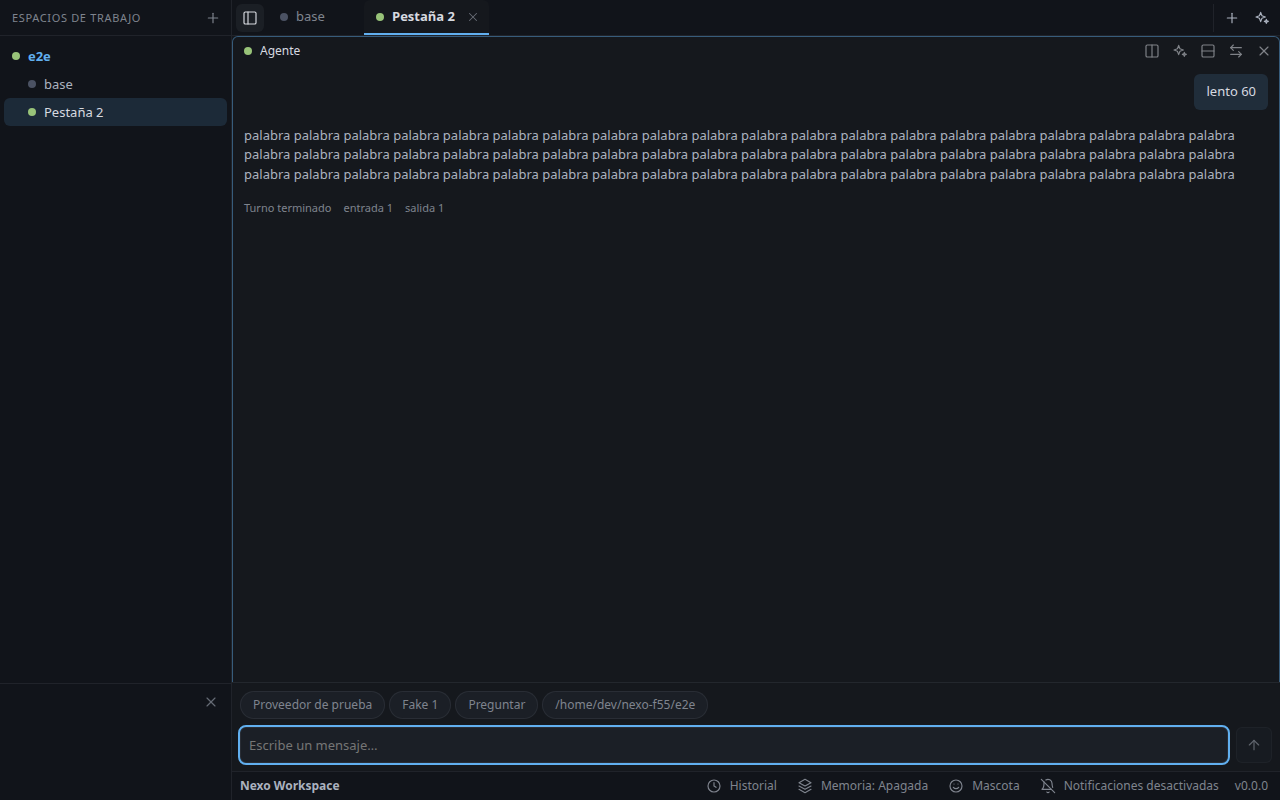
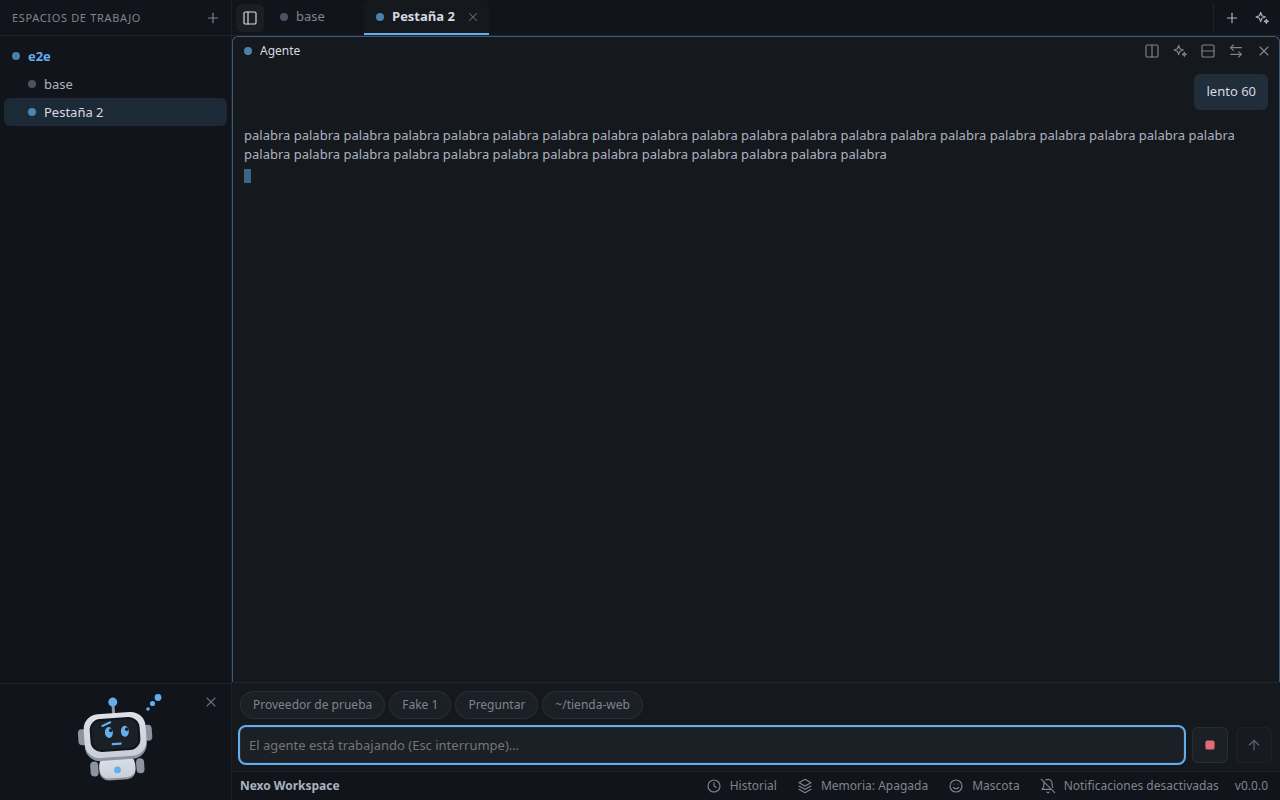
docs: F5.5 (pestañas, rutas largas y Robi) en arquitectura, roadmap, mascotas y README; capturas sin la ruta del VPS

diff --git a/docs/ARCHITECTURE.md b/docs/ARCHITECTURE.md
@@ -2317,7 +2317,7 @@ Las tablas de costos de la memoria alinean a la derecha las columnas numéricas 
 - **Barra de estado:** dos grupos, el de la izquierda (nombre de la app y límites) y el de la derecha (Historial, Memoria, Mascota, Notificaciones y versión), con altura fija de 28 px, sin
   `margin-left: auto` repartido por los botones (de ahí que «Historial» flotara en medio). Los límites se truncan y su detalle se ancla a la barra, no al botón.
 - **Pestañas:** botones a los lados que no se mueven (barra lateral, `+`, agente) y una lista central con desplazamiento horizontal; la pestaña activa se lleva a la vista entera, con su
-  cerrar. Anchura de cada pestaña `clamp(112px, 24vw, 200px)`; el cerrar es visible en la activa y en pantallas táctiles.
+  cerrar. Anchura de cada pestaña según su título, entre `--tab-min` (96 px) y `--tab-max` (200 px) (ver «Detalles visuales y Robi (F5.5)»); el cerrar es visible en la activa y en pantallas táctiles.
 - **Paneles:** cada panel es un contenedor (`container-type: inline-size`): por debajo de 300 px de ancho se retiran los botones secundarios de su cabecera (dividir con agente, intercambiar), por
   debajo de 190 px también los de dividir; cerrar siempre queda. Un panel mide al menos `--pane-min` (120 px) y, si no caben, el contenedor se desplaza en vez de aplastarlos. Las acciones se ven siempre en el panel con foco
   y, sin «pasar el ratón» (`hover: none`), en todos.
@@ -2330,7 +2330,34 @@ Unitarias de `Icon` (trazos válidos, tamaños, nombres hostiles), `Dialog`/`Dia
 con el cajón abierto). Adversariales (`Icon`, `Dialog`, `layout.adversarial.test.tsx`): etiquetas de 20 000 caracteres, emojis, RTL y marcado, 400 pestañas, cruzar el umbral 300 veces, sin `matchMedia`. E2E
 (`e2e/pulido.spec.ts`): a 360, 768, 1024, 1280 y 1920 px recorre terminal con tres paneles, agente con chips y con permiso, visor, Historial (lista y sesión), Memoria, Mascota, límites, Atajos, cajón y barra colapsada, y exige
 `scrollWidth <= clientWidth` en el documento y en las barras, que nada salga de la ventana y que todo botón de icono mida ≥ 28 px; a 360 px comprueba que los botones clave son visibles y pulsables y que la pestaña activa
-queda entera a la vista. Capturas: `docs/capturas/f5-4-*.png` (`NEXO_CAPTURAS=1 pnpm e2e -g pulido`; `NEXO_CAPTURAS_PREFIX` y `NEXO_CAPTURAS_DIR` cambian el nombre y la carpeta).
+queda entera a la vista. Capturas: `docs/capturas/f5-4-*.png` (`NEXO_CAPTURAS=1 pnpm e2e -g pulido`; `NEXO_CAPTURAS_PREFIX` y `NEXO_CAPTURAS_DIR` cambian el nombre y la carpeta); desde F5.5 muestran a Robi.
+
+## Detalles visuales y Robi (F5.5)
+
+Retoques tras revisar las capturas de la F5.4 (#81). Sin cambios de protocolo ni de contratos.
+
+- **Pestañas** (`ui/TabBar.tsx`, `TabBar.css`): cada una mide lo que pide su título, con `min-width: var(--tab-min)` (96 px) y `max-width: var(--tab-max)` (200 px); el título se corta con puntos suspensivos
+  y el cerrar queda pegado a él. La lista va dentro de un marco (`.tablist-frame`) con dos fundidos (`--tab-fade`) que aparecen según `data-more` (`start`, `end` o ambos), calculado al desplazar, al
+  redimensionar (`ResizeObserver`, si existe) y al cambiar los títulos. La rueda vertical desplaza la lista en horizontal solo si desborda y si el gesto es más vertical que horizontal; el desplazamiento
+  horizontal nativo (táctil, panel táctil) no se toca.
+- **Rutas largas:** una ruta ya no se parte a mitad de palabra. La línea de metadatos de una sesión del Historial separa la parte fija (proveedor y fecha) de la ruta, que se trunca con puntos suspensivos y lleva
+  la ruta entera en `title`; con poco ancho, la información de la sesión baja a su propia fila. El visor (`.viewer-path`), el chip de cwd del compositor y la cabecera de cada proyecto del Historial ya truncaban con
+  `title`. La ruta de un bloque del agente (`PathLink`, también sin carpeta resoluble) lleva `title` y puede partirse en varias líneas (solo ahí): es lo que se aprueba o se rechaza y tiene que verse entera.
+- **Robi** (`examples/companions/robi/`): paquete de ejemplo real, no un doble de pruebas. Seis SVG de 96 × 96 dibujados a mano con formas simples (robot de carcasa clara con pantalla oscura, para el fondo oscuro de la app) y un color
+  de la paleta por estado: `idle` (azul, sonríe), `thinking` (azul, mira hacia arriba con globos de pensamiento), `busy` (azul, ojos en espiral y chispas: varios agentes), `waiting` (ámbar, ojos grandes y «?»),
+  `done` (verde, ojos felices, destello y una marca en el pecho) y `error` (rojo, ojos en cruz y un rayo). Licencia CC0 (`LICENSE` de la carpeta y `license` del manifiesto). Sin hoja de sprites: un SVG no se
+  puede pausar con `prefers-reduced-motion`, así que Robi no se mueve (el dock ya lo hace en `waiting`, y eso sí respeta la preferencia). Cumple las reglas de SVG (sin scripts, manejadores ni referencias externas; solo un
+  degradado local) y cada estado pesa unos 2 KiB, muy por debajo de los 512 KiB. Se verifica con el cargador real (`companion-fs`).
+- **Capturas:** las `f5-4-*`, `f5-estado-*` y `f5-selector` se regeneraron con Robi (el E2E lo instala copiando la carpeta `examples/companions/robi`); las `f5-ancho-*` (interfaz anterior a la F5.4, que `f5-4-*` ya
+  cubre a 360, 768 y 1280 px) y su prueba de capturas se eliminaron. En las capturas, la ruta de trabajo de la prueba se sustituye por `~/tienda-web`.
+
+### Pruebas (F5.5)
+
+Unitarias: `ui/TabBar.test.tsx` (rueda, fundidos por lado con medidas simuladas) y `packages/adapters/companion-fs/test/robi.test.ts` (Robi pasa `list`, `get` y `readAsset` del cargador real: seis estados con
+dibujos distintos, todo SVG, licencia, y un archivo no declarado no se sirve). Adversarial: desplazamientos de rueda enormes (`1e12`, `Number.MAX_VALUE`) y sin desborde. E2E (`e2e/pulido.spec.ts`, `e2e/companion.spec.ts`):
+anchos de pestaña entre 96 y 200 px, fundido y rueda con ocho pestañas más, una ruta del Historial en una sola línea a 360 px, y Robi decodificado con una imagen distinta en reposo, pensando, terminado y esperando.
+
+**Qué queda fuera.** Que el instalador de F6 incluya Robi (encaja de forma natural: es una carpeta que se copia a `companions/`), una hoja de sprites de `thinking`, y partir con criterio una ruta en el bloque del agente.
 
 ## Seguridad
 

diff --git a/README.md b/README.md
@@ -51,7 +51,7 @@ Si el daemon no corre, la CLI lo arranca desacoplado (registro en `daemon.log` d
 - `nexo fs stat <ruta>` y `nexo fs cat <ruta> [--max-bytes N] [--base64]`: leen archivos de las carpetas de los espacios abiertos (nunca `.ssh`, `.env`, credenciales ni lo que salga de la carpeta por un enlace).
 - `nexo history ls | show`: historial de los proveedores por carpeta (Claude Code y Codex; los agentes ACP que lo anuncian solo listan; Antigravity y Ollama no tienen); `nexo agent new --resume <sesión>` reanuda una sesión del historial.
 - `nexo limits [--provider <id>] [--refresh]`: límites de uso de Codex (consulta directa) y de Claude Code (solo los que el SDK informa durante una sesión; si no, «desconocido»): porcentaje usado, reinicio, origen y frescura; sin datos de la cuenta.
-- `nexo companion list | get <id> | select <id> | none | state`: compañeros (mascotas) como paquetes de datos en `<estado>/companions/<id>/` (`companion.json` + imágenes PNG/WebP/GIF/SVG, sin código); por omisión no hay mascota. La ventana la dibuja en una esquina (botón **Mascota** de la barra de estado para elegirla u ocultarla). Guía para crear una o conectar una externa: [docs/mascotas.md](docs/mascotas.md); diseño: [Arquitectura](docs/ARCHITECTURE.md#compañeros-f52).
+- `nexo companion list | get <id> | select <id> | none | state`: compañeros (mascotas) como paquetes de datos en `<estado>/companions/<id>/` (`companion.json` + imágenes PNG/WebP/GIF/SVG, sin código); por omisión no hay mascota. La ventana la dibuja en una esquina (botón **Mascota** de la barra de estado para elegirla u ocultarla). Guía para crear una o conectar una externa, con la mascota de ejemplo **Robi** (`examples/companions/robi`): [docs/mascotas.md](docs/mascotas.md); diseño: [Arquitectura](docs/ARCHITECTURE.md#compañeros-f52).
 - `nexo open <ruta> [--pane <panel>]`: muestra un archivo en el visor lateral (Markdown, imágenes, PDF, texto); reutiliza el visor de la pestaña o abre uno nuevo.
 - `nexo daemon status | stop | log`: estado, apagado limpio y registro.
 
@@ -342,6 +342,7 @@ apps/daemon          raíz de composición (esqueleto)
 apps/web             interfaz SolidJS + Vite (terminales y panel de agente)
 apps/cli            CLI `nexo`
 apps/mcp            servidor MCP por stdio (cliente más del daemon)
+examples/companions  mascotas de ejemplo para copiar (Robi)
 ```
 
 ## Documentación

diff --git a/docs/mascotas.md b/docs/mascotas.md
@@ -32,10 +32,33 @@ La mascota muestra uno de seis estados, que salen de la atención de todos los a
 `idle` es **obligatorio**. Los demás son opcionales: un estado que no declaras (o cuya imagen falla) se dibuja con
 la imagen de `idle`. Si falla incluso `idle`, Nexo no dibuja nada (nunca una imagen rota).
 
-### Ejemplo completo
+### Ejemplo listo para copiar: Robi
+
+[`examples/companions/robi/`](../examples/companions/robi) es un paquete real (SVG dibujados a mano, licencia CC0) con una expresión distinta para cada estado:
+
+| `idle` | `thinking` | `busy` | `waiting` | `done` | `error` |
+| :----: | :--------: | :----: | :-------: | :----: | :-----: |
+| ![idle](../examples/companions/robi/idle.svg) | ![thinking](../examples/companions/robi/thinking.svg) | ![busy](../examples/companions/robi/busy.svg) | ![waiting](../examples/companions/robi/waiting.svg) | ![done](../examples/companions/robi/done.svg) | ![error](../examples/companions/robi/error.svg) |
+
+Para usarla, copia la carpeta entera a la de compañeros (ver [Dónde copiarlo](#dónde-copiarlo)) y elígela:
 
 ```
-robi/
+# Linux / macOS
+cp -r examples/companions/robi "<directorio de estado de Nexo>/companions/"
+# Windows (PowerShell)
+Copy-Item -Recurse examples\companions\robi "$env:LOCALAPPDATA\Nexo\companions\"
+
+nexo companion select robi
+```
+
+Para hacer la tuya, copia `robi/` con otro nombre de carpeta, cambia `id`, `name` y `author` en `companion.json` (el `id` tiene que ser el nombre de la carpeta) y sustituye los SVG (o PNG, WebP o GIF). Un
+estado que no dibujes usa la imagen de `idle`. Robi no incluye hoja de sprites: para animar un estado, mira [Hojas de sprites](#hojas-de-sprites-sheet). Una prueba
+(`packages/adapters/companion-fs/test/robi.test.ts`) la carga con el cargador real, así que el ejemplo no se desactualiza.
+
+### Ejemplo completo con todos los formatos
+
+```
+mixta/
   companion.json
   idle.png
   pensando.gif
@@ -49,10 +72,10 @@ robi/
 ```json
 {
   "format": 1,
-  "id": "robi",
-  "name": "Robi",
+  "id": "mixta",
+  "name": "Mixta",
   "version": "1.0.0",
-  "description": "Un robot sencillo.",
+  "description": "Mezcla PNG, GIF, hoja de sprites, WebP y SVG.",
   "author": { "name": "Tu nombre", "url": "https://ejemplo.org" },
   "license": "CC0-1.0",
   "states": {

diff --git a/docs/ROADMAP.md b/docs/ROADMAP.md
@@ -136,7 +136,10 @@ Antigravity y de Ollama, una consulta propia de los límites de Claude (solo inf
   icono y foco atrapado, barra de estado en dos grupos, compositor y chips alineados, pestañas con desplazamiento y activa siempre visible, barra lateral colapsable (carril con la mascota) y cajón superpuesto
   por debajo de 760 px, paneles con tamaño mínimo y cabecera adaptable, tablas numéricas a la derecha, variables de diseño únicas y ventana mínima de 480 × 360. Pruebas unitarias, adversariales y E2E a cinco anchos
   con comprobación de desbordes; capturas `f5-4-*`. Ver «Pulido visual y responsive (F5.4)».
-- La primera mascota es un proyecto aparte; Nexo funciona al 100 % sin ninguna.
+- **F5.5 Detalles visuales y mascota Robi** (#81, hecho): pestañas que miden según su título (96 a 200 px) con fundido en los bordes y rueda vertical que las desplaza en horizontal, rutas largas en una línea con
+  puntos suspensivos y `title`, la mascota de ejemplo **Robi** (`examples/companions/robi`, SVG propio, CC0, una expresión por estado) con su prueba de carga con el cargador real y capturas regeneradas con ella.
+  Ver «Detalles visuales y Robi (F5.5)».
+- Nexo funciona al 100 % sin mascota; Robi es solo un ejemplo para copiar (ver [docs/mascotas.md](mascotas.md)).
 
 ## F6 — Empaquetado
 
